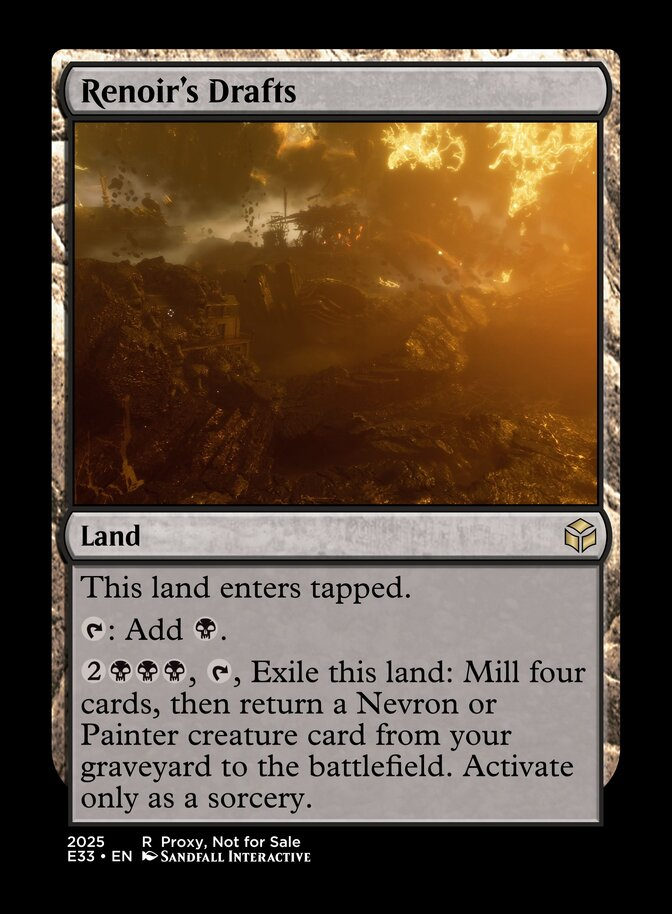
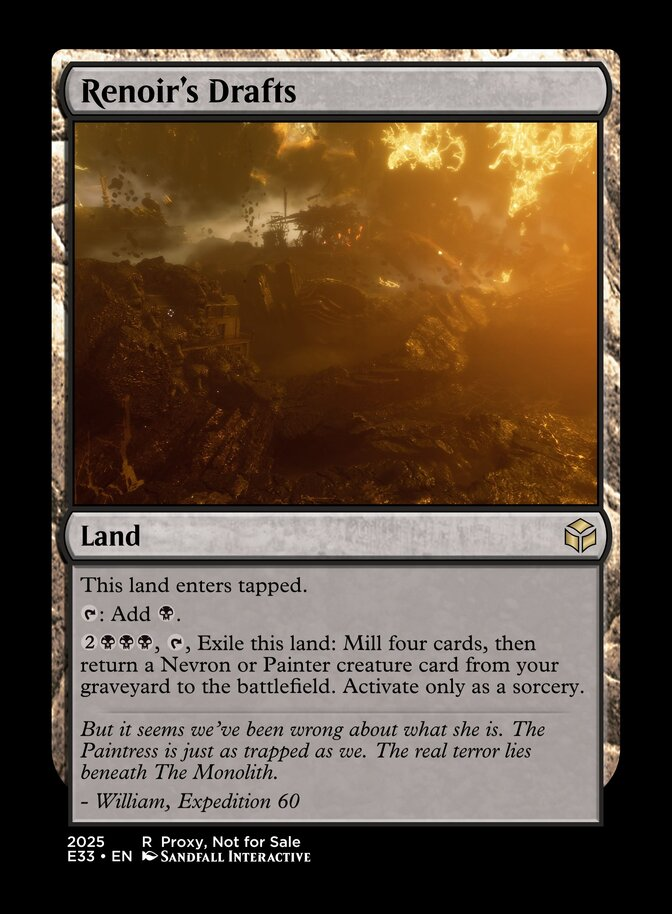
Renoir's Drafts: Add flavor text

Changed region(s): [[0.125, 0.6127, 0.875, 0.8884]]

diff --git a/design/LANDS.md b/design/LANDS.md
@@ -1,6 +1,6 @@
 # Cards
 
-> Last generated: 5/2/2026 11:30:16 am
+> Last generated: 6/2/2026 12:09:15 pm
 
 ## Blade's Graveyard (Concealed Courtyard)
 
@@ -453,6 +453,9 @@ Land
 This land enters tapped.
 {T}: Add {B}.
 {2}{B}{B}{B}, {T}, Exile this land: Mill four cards, then return a Nevron or Painter creature card from your graveyard to the battlefield. Activate only as a sorcery.
+---
+But it seems we've been wrong about what she is. The Paintress is just as trapped as we. The real terror lies beneath The Monolith.
+- William, Expedition 60
 ```
 
 [card implementation](../custom/cards/r/renoirs_drafts.txt)

diff --git a/design/MULTICOLOR.md b/design/MULTICOLOR.md
@@ -1,6 +1,6 @@
 # Cards
 
-> Last generated: 6/2/2026 11:51:12 am
+> Last generated: 6/2/2026 12:07:39 pm
 
 ## A Storm is Coming
 
@@ -2118,6 +2118,7 @@ Foretell {1}{W/U} (During your turn, you may pay {2} and exile this card from yo
  - In the game, Sciel gives her "glowing endorsement" of Gustave for "shouting the password as loud as you can" to get access to Esquie's Nest.
  - This card 100% based on the "Sciel of Approval" meme/pun.
  - 21/01/2026: Color-shifted from white to white/blue hybrid.
+ - 6/02/2026: Added Foretell
 
 ## Serpenphare
 
